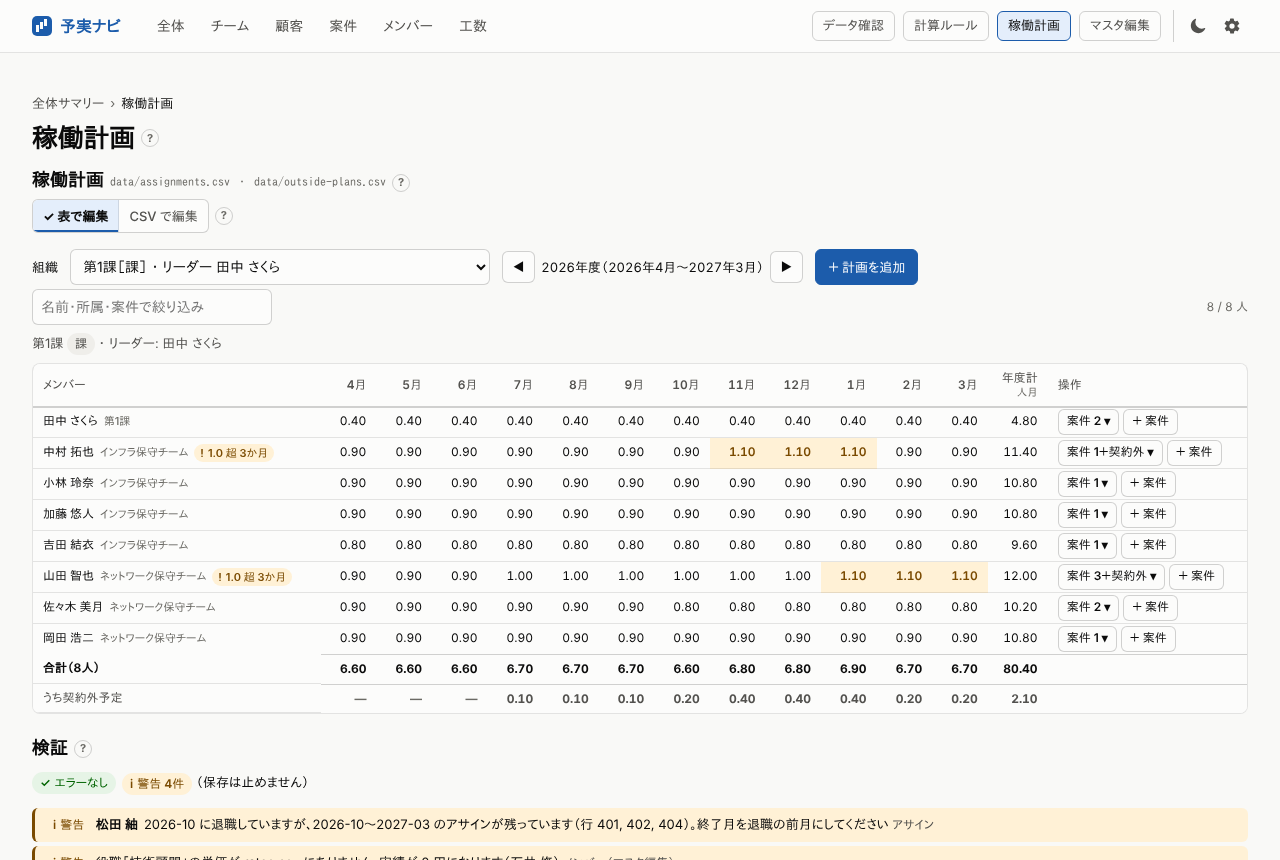
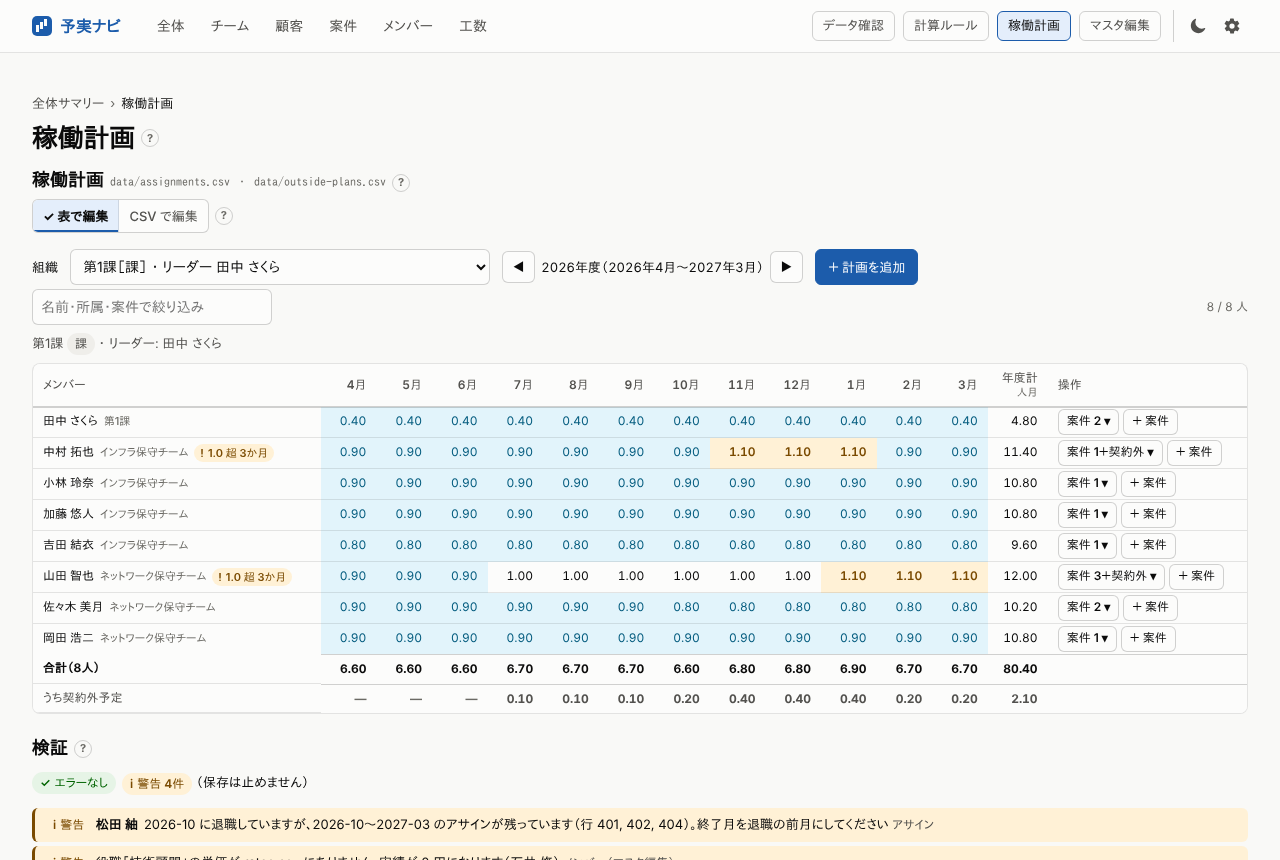
稼働計画: 人の月合計が 1.0 未満のセルを青系に（SPEC §41）
1.0 超の黄と並べて、空きのある月を見つけやすくする。0（計画なし）と
内訳の行は色を付けない。色の意味は「?」の凡例に 1 文。使われていない
overMonths の文言（保存できない旨の古い説明）を削除。

Claude-Session: https://claude.ai/code/session_01JvFhvMP9Tbju8jZcCNuQXo

Changed region(s): [[0.25, 0.4535, 0.7812, 0.786]]

diff --git a/src/components/masters.js b/src/components/masters.js
@@ -1042,8 +1042,11 @@ export function mastersEditor({ data, config, asOfMonth, minMonth, views = LEDGE
     const totals = months.map(() => 0);
     const outsideTotals = months.map(() => 0);
 
+    /** 人の行の月合計の色: 1.0 超は黄、0 より多く 1.0 未満は青系（§41）。0（計画なし）は色を付けない */
+    const allocLevel = (v) => (v > 1 + 1e-9 ? "over" : v > 1e-9 && v < 1 - 1e-9 ? "under" : null);
+
     /** 月のセル（クリックでその場の修正。target を渡すとその対象の欄から始める） */
-    const cellButton = (r, m, v, label, focusTarget, over) => {
+    const cellButton = (r, m, v, label, focusTarget, level = null) => {
       const fk = `plan:cell:${r.memberId}:${focusTarget ? targetId(focusTarget) : "all"}:${m}`;
       const btn = html`<button type="button" class=${editable ? "yn-plan-cell-btn" : "yn-plan-cell-btn is-readonly"} data-fk=${fk} aria-label=${fmt(T.plan.cellAria, { name: label, month: monthJa(m), pm: pm(v) })} aria-haspopup=${editable ? "dialog" : null}>${v > 0 ? pm(v) : html`<span class="yn-muted" aria-hidden="true">—</span>`}</button>`;
       const tip = () => tooltip.show(btn, cellTip(r, m));
@@ -1059,7 +1062,7 @@ export function mastersEditor({ data, config, asOfMonth, minMonth, views = LEDGE
       });
       // 退職した月より後（§35）
       const left = r.leftFrom != null && m >= r.leftFrom;
-      return html`<td class=${`num yn-me-plan-cell${over ? " is-over" : v > 0 ? " is-set" : ""}${left ? " is-left" : ""}`}>${btn}</td>`;
+      return html`<td class=${`num yn-me-plan-cell${level ? ` is-${level}` : ""}${left ? " is-left" : ""}`}>${btn}</td>`;
     };
 
     // 名前・所属・案件で絞り込む（空白区切りの語をすべて含む）
@@ -1116,7 +1119,7 @@ export function mastersEditor({ data, config, asOfMonth, minMonth, views = LEDGE
           <span class="yn-me-plan-name" title=${teamName ? `${name} ・ ${teamName}` : name}>${name}</span>${teamName ? html`<span class="yn-me-plan-team">${teamName}</span>` : null}
           ${r.support ? html`<span class="yn-chip yn-chip-neutral">${T.plan.support}</span>` : null}${r.leftFrom ? html`<span class="yn-chip yn-chip-neutral" title=${fmt(T.members.chipLeftTitle, { month: monthJa(r.leftFrom) })}>${T.members.chipLeft} ${monthJa(r.leftFrom)}</span>` : null}${r.afterLeftMonths.length ? html`<span class="yn-chip yn-chip-warn" title=${T.plan.afterLeftTitle}><span aria-hidden="true">!</span> ${fmt(T.plan.afterLeftChip, { n: integer(r.afterLeftMonths.length) })}</span>` : null}${overMonths.length ? html`<span class="yn-chip yn-chip-warn"><span aria-hidden="true">!</span> ${fmt(T.plan.overChip, { n: integer(overMonths.length) })}</span>` : null}${stateChips(counts.changed + oCounts.changed, counts.added + oCounts.added, counts.errors + oCounts.errors)}
         </div></th>
-        ${months.map((m, i) => cellButton({ ...r, name }, m, monthly[i], name, null, monthly[i] > 1 + 1e-9))}
+        ${months.map((m, i) => cellButton({ ...r, name }, m, monthly[i], name, null, allocLevel(monthly[i])))}
         <td class="num">${pm(monthly.reduce((a, b) => a + b, 0))}</td>
         <td class="yn-me-actions-cell"><div class="yn-me-row-actions">
           <button type="button" class="yn-btn yn-btn-sm" data-fk=${`plan:toggle:${r.memberId}`} aria-expanded=${open ? "true" : "false"} aria-controls=${detailId} aria-label=${fmt(T.planEdit.toggleAria, { name, n: projectList.length })} onclick=${() => toggle(r.memberId)}>${fmt(T.planEdit.toggle, { n: integer(projectList.length) })}${hasOutside ? T.planEdit.toggleOutside : ""} ${open ? "▴" : "▾"}</button>
@@ -1138,7 +1141,7 @@ export function mastersEditor({ data, config, asOfMonth, minMonth, views = LEDGE
           <th scope="row"><div class="yn-me-plan-who yn-me-plan-sub-who">
             <span class="yn-me-plan-name" title=${sub ? `${label} ・ ${sub}` : label}>${label}</span>${sub ? html`<span class="yn-me-plan-team">${sub}</span>` : null}${stateChips(c.changed, c.added, c.errors)}
           </div></th>
-          ${months.map((m, i) => cellButton({ ...r, name }, m, mv[i], `${name} ${label}`, target, false))}
+          ${months.map((m, i) => cellButton({ ...r, name }, m, mv[i], `${name} ${label}`, target))}
           <td class="num">${pm(mv.reduce((a, b) => a + b, 0))}</td>
           <td class="yn-me-actions-cell"><div class="yn-me-row-actions">
             <button type="button" class="yn-btn yn-btn-sm" data-fk=${`plan:hist:${k}`} aria-expanded=${histOpen ? "true" : "false"} aria-controls=${histId} aria-label=${fmt(T.planEdit.histAria, { name, target: label, n: entries.length })} onclick=${() => toggleHist(r.memberId, target)}>${fmt(T.planEdit.histToggle, { n: integer(entries.length) })} ${histOpen ? "▴" : "▾"}</button>

diff --git a/src/i18n/ja.js b/src/i18n/ja.js
@@ -1408,7 +1408,6 @@ export default {
     toggle: "計画 {n}件",
     support: "応援",
     overChip: "1.0 超 {n}か月",
-    overMonths: "1.0 人月を超える月: {months}（このままでは保存できません）",
     cellTitle: "{month}: {pm} 人月",
     allocPerMonth: "{pm} 人月/月",
     allocNotNumber: "（配分が数値ではありません）",
@@ -1544,7 +1543,7 @@ export default {
     entryRevertAria: "{target} の {period} の修正を元に戻す",
     entryDeleteAria: "{target} の {period} を削除",
     footOutside: "うち契約外予定",
-    legend: "人の行の数値は、保守の配分と契約外予定の合計（人月）。1.0 を超える月は「1.0 超」と表示します。案件ごとの内訳は「案件」で開きます。",
+    legend: "人の行の数値は、保守の配分と契約外予定の合計（人月）。1.0 を超える月は黄（「1.0 超」）、1.0 に満たない月は青で示します。案件ごとの内訳は「案件」で開きます。",
     editLead: "この期間の行（開始月・終了月・人月）を直接書き換えます。途中の月から人月を変えるときは、閉じて「＋ 変更」を使ってください（期間を画面が分けます）。過去の月に及ぶ場合は、適用前に影響する月数を表示します。",
     searchPlaceholder: "名前・所属・案件で絞り込み",
     searchAria: "稼働計画の人を名前・所属・案件で絞り込む",

diff --git a/src/style.css b/src/style.css
@@ -52,6 +52,8 @@
   --yn-neutral-text: #52514e;
   --yn-neutral-bg: #efeeea;
   --yn-accent-bg: #e4eefb;
+  --yn-under-text: #075e80; /* 稼働計画の 1.0 未満（6.4:1） */
+  --yn-under-bg: #e2f4fb;
 }
 
 :root[data-theme="dark"] {
@@ -93,6 +95,8 @@
   --yn-neutral-text: #c3c2b7;
   --yn-neutral-bg: #2a2a28;
   --yn-accent-bg: #1a2a40;
+  --yn-under-text: #6fc6ea; /* 7.4:1 */
+  --yn-under-bg: #0c2e3b;
 }
 
 /* ---------------------------------------------------------------------------
@@ -2666,7 +2670,12 @@ html:has(dialog.yn-dialog[open]) {
   color: var(--yn-warn-text);
   font-weight: 600;
 }
-/* 退職した月以降（§35）。配分が残っていれば is-over / is-set の色の上に斜線で示す */
+/* 1.0 未満の月（§41）。超過の黄と分けて青系 */
+.yn-me-plan-cell.is-under {
+  background: var(--yn-under-bg);
+  color: var(--yn-under-text);
+}
+/* 退職した月以降（§35）。配分が残っていれば is-over / is-under の色の上に斜線で示す */
 .yn-me-plan-cell.is-left {
   background-image: repeating-linear-gradient(135deg, transparent 0 6px, var(--yn-hairline-strong) 6px 7px);
 }

diff --git a/tests/e2e/README.md b/tests/e2e/README.md
@@ -55,7 +55,7 @@ PW_CHROMIUM_PATH=/opt/pw-browsers/chromium E2E_SKIP_BUILD=1 npx playwright test 
 | `customers.spec.ts` / `members.spec.ts` / `team-detail.spec.ts` / `workload.spec.ts` | 顧客別・メンバー別・チーム詳細・工数の各画面（数値の突合・遷移・Excel・狭幅・ダーク） |
 | `detail-view.spec.ts` | 閲覧画面のレビュー指摘の回帰（明細は常に円、単価なしは赤くしない、顧客 → 案件一覧の絞り込み など） |
 | `masters.spec.ts` / `gitlab-merge.spec.ts` | マスタ編集（追加・修正・削除・下書き・差分・保存方式）と GitLab へのマージ方式（デモ・API のモック） |
-| `plan.spec.ts` / `plan-cells.spec.ts` | 稼働計画（組織の配下・リーダー・セル編集・案件で選ぶ・候補から選ぶ入力欄） |
+| `plan.spec.ts` / `plan-cells.spec.ts` | 稼働計画（組織の配下・リーダー・セル編集・案件で選ぶ・候補から選ぶ入力欄・1.0 超は黄／1.0 未満は青系。SPEC §41） |
 | `issue-list.spec.ts` | 検証の一覧（1.0 超は警告・名前で示す・押すと該当の行へ（組織・年度・絞り込み・他画面）・8 件超・エラー赤／警告黄・各画面幅・ダーク）。SPEC §40 |
 | `chart-zoom.spec.ts` | グラフの拡大表示（ダイアログで描き直す・開く・閉じる・はみ出さない・吹き出し。各画面幅・ライト/ダーク）。SPEC §33 |
 | `ui-controls.spec.ts` | テーマ切替・期間指定・「?」の吹き出し（各画面幅・ライト/ダーク） |
